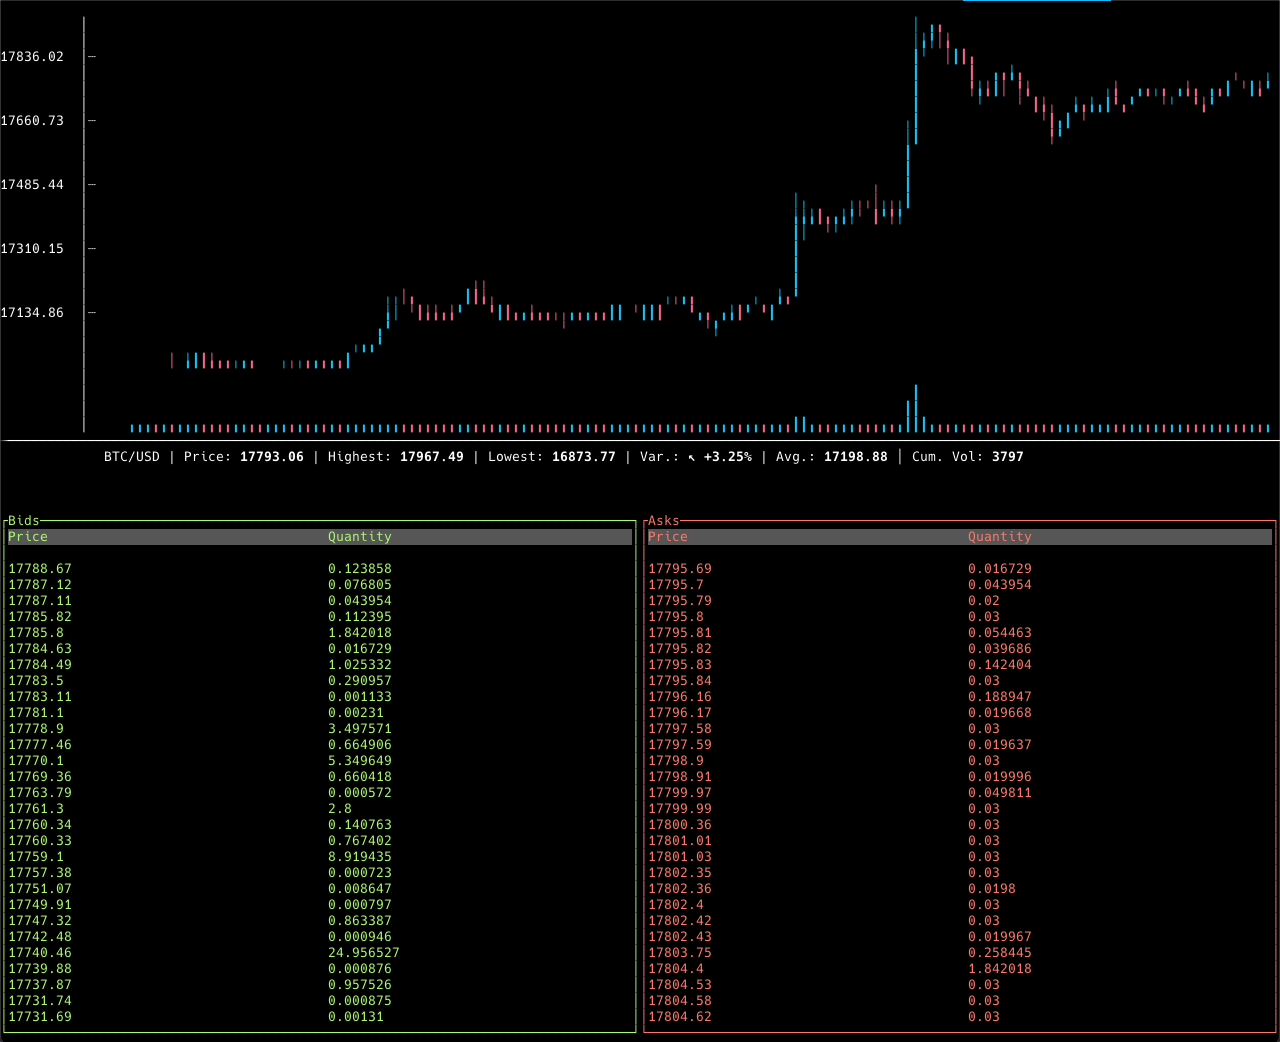
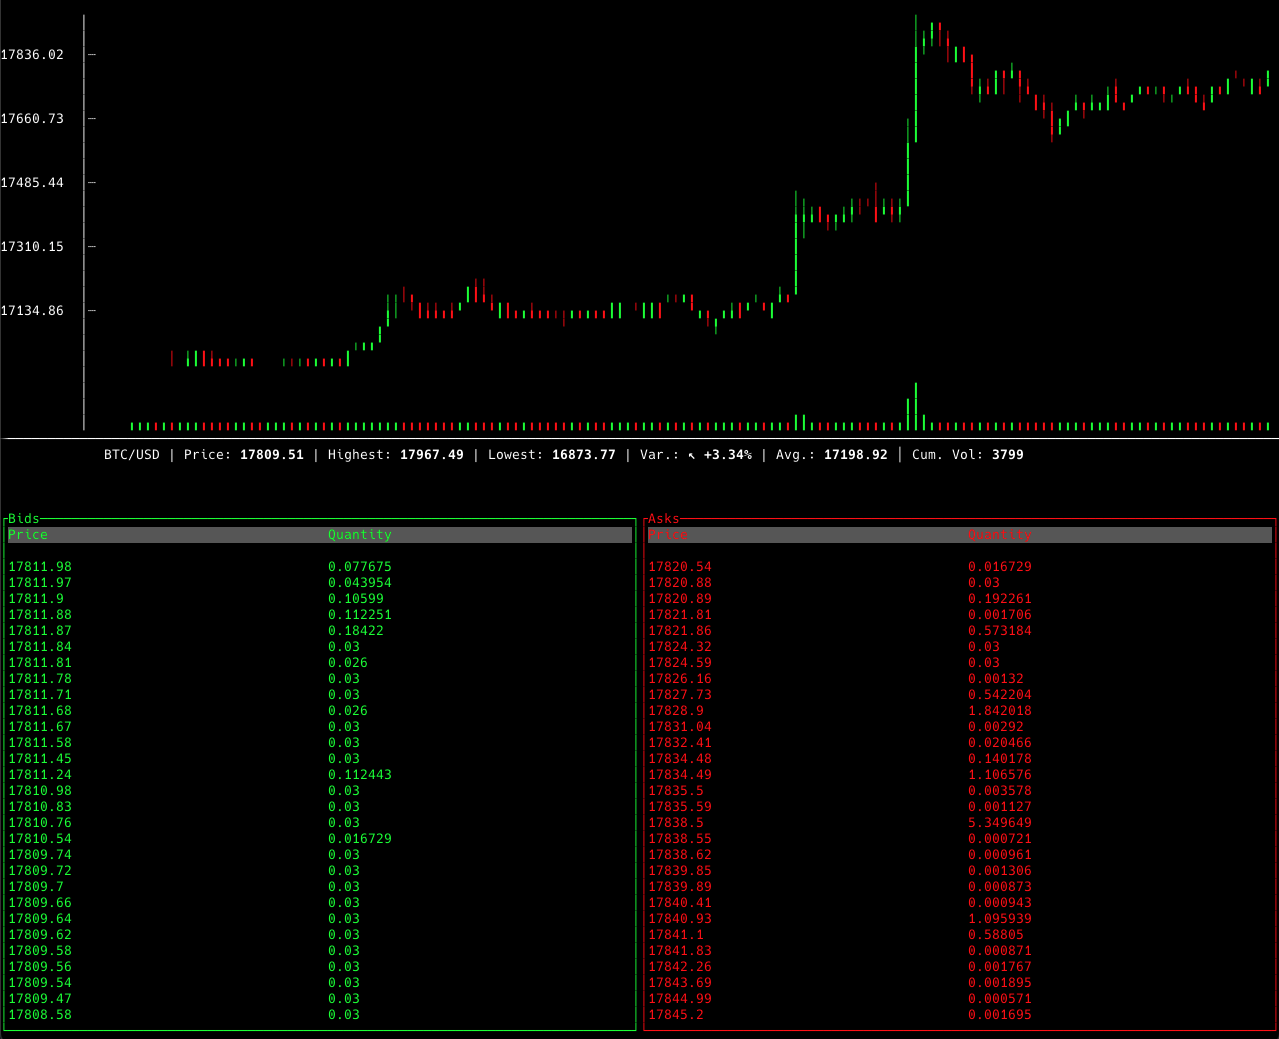
new screenshot

diff --git a/src/main.rs b/src/main.rs
@@ -129,8 +129,8 @@ fn main() -> Result<(), Box<dyn Error>> {
             let top_pane = AnsiEscape(&render);
             let bottom_pane =
                 Block::default().title("Orderbook").borders(Borders::ALL);
-            let asks_list = make_table("Asks".to_string(), asks, Color::Red);
-            let bids_list = make_table("Bids".to_string(), bids, Color::Green);
+            let asks_list = make_table("Asks".to_string(), asks, Color::Rgb(255, 0, 0));
+            let bids_list = make_table("Bids".to_string(), bids, Color::Rgb(0, 255, 0));
             frame.render_widget(top_pane, area);
             frame.render_widget(bottom_pane, chunks[1]);
             frame.render_widget(bids_list, bottom_chunks[0]);
@@ -146,10 +146,10 @@ fn main() -> Result<(), Box<dyn Error>> {
 fn make_chart(candles : Vec<Candle>, area: Rect) -> Chart {
     let mut chart = Chart::new_with_size(candles, (area.width, area.height));
     chart.set_name(String::from("BTC/USD"));
-    chart.set_bull_color(1, 205, 254);
-    chart.set_bear_color(255, 107, 153);
-    chart.set_vol_bull_color(1, 205, 254);
-    chart.set_vol_bear_color(255, 107, 153);
+    chart.set_bull_color(0, 255, 0);
+    chart.set_bear_color(255, 0, 0);
+    chart.set_vol_bull_color(0, 255, 0);
+    chart.set_vol_bear_color(255, 0, 0);
     chart.set_volume_pane_height(4);
     chart.set_volume_pane_enabled(true);
     chart
